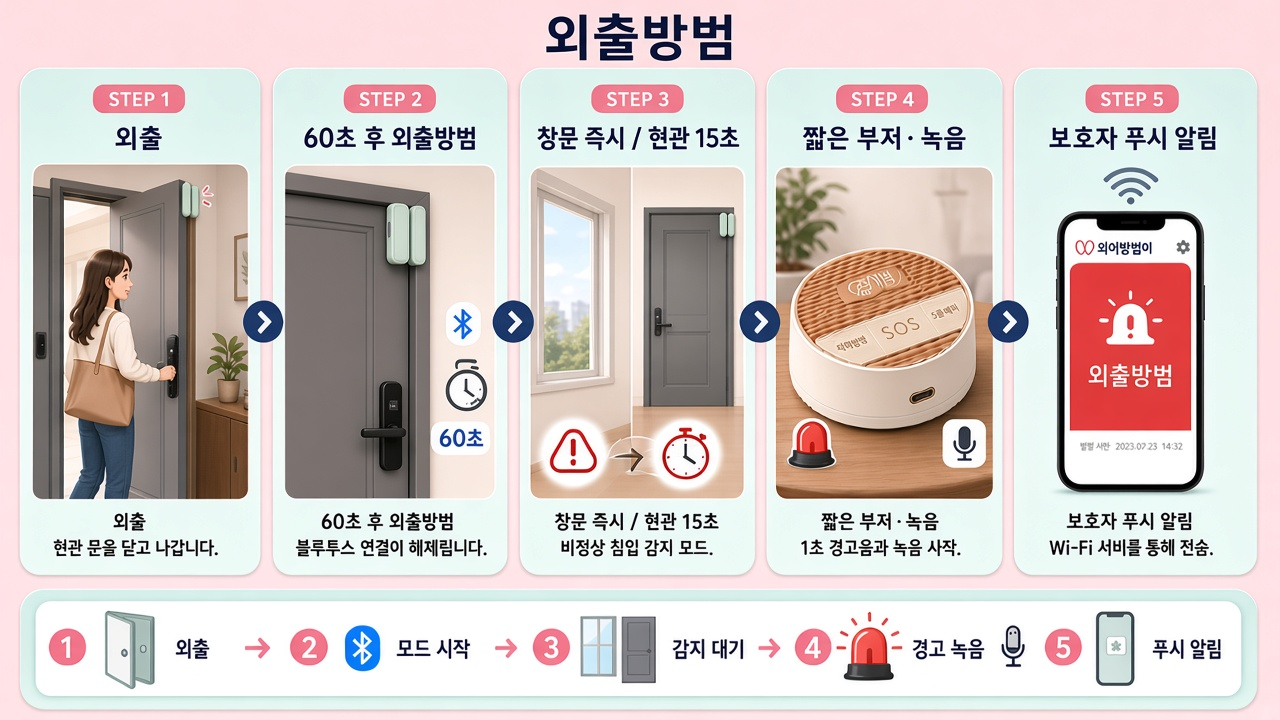
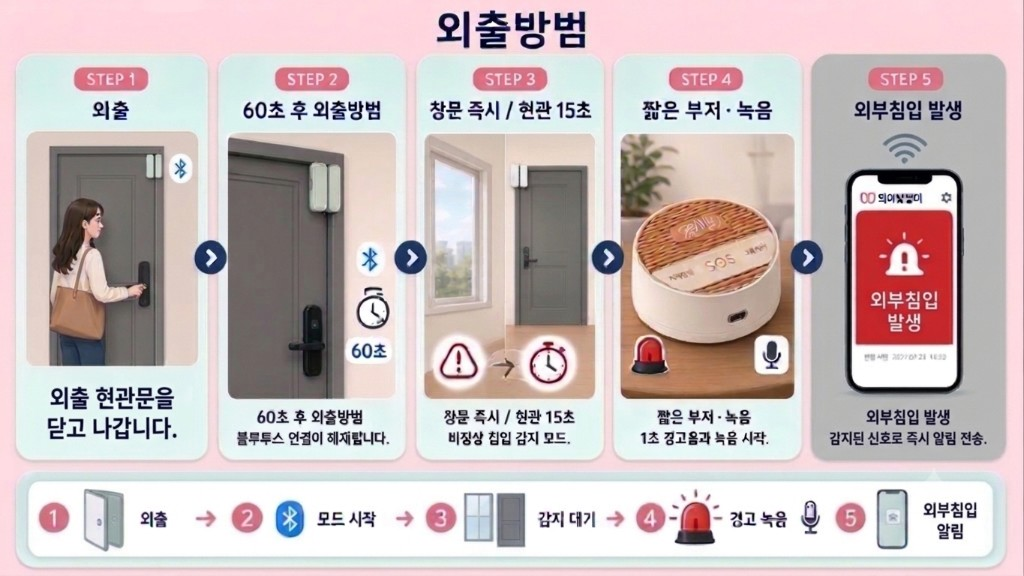
Update 외출방범 mode flow graphic on the product page.

diff --git a/products/my-ansimi-manual/index.html b/products/my-ansimi-manual/index.html
@@ -3,27 +3,27 @@
 <head>
   <meta charset="UTF-8" />
   <meta name="viewport" content="width=device-width, initial-scale=1" />
-  <meta name="description" content="마이안심이 사용 설명서 — 설치·앱 연결·방범 모드·비명인식 안내" />
+  <meta name="robots" content="noindex, nofollow, noarchive" />
   <title>마이안심이 — 그림으로 보는 사용 설명서</title>
   <link rel="stylesheet" href="https://cdn.jsdelivr.net/gh/orioncactus/pretendard@v1.3.9/dist/web/static/pretendard.min.css" />
   <style>
     :root {
-      /* 제품 톤: 크림 · 웜 그레이 · 골드 포인트 */
-      --bg: #f3eee6;
-      --paper: #fffcf7;
-      --ink: #2a2624;
-      --soft: #6a625c;
-      --line: #e5ddd2;
-      --rose: #8a6a4e;
-      --rose-soft: #f0e2d0;
-      --teal: #6b5a48;
-      --teal-soft: #ebe3d6;
-      --gold: #b8945a;
-      --warn: #6c5d32;
-      --warn-soft: #f0dba5;
+      /* Figma「마이안심이 리뉴얼」 */
+      --bg: #f6f3fa;
+      --paper: #ffffff;
+      --ink: #2c2440;
+      --soft: #8a8198;
+      --line: #ede7f3;
+      --rose: #7b61c6;
+      --rose-soft: #f1e8f8;
+      --teal: #684eae;
+      --teal-soft: #e8e4f8;
+      --gold: #7b61c6;
+      --warn: #c9841a;
+      --warn-soft: #f7ebd2;
       --danger: #ba1a1a;
       --font: "Pretendard", "Apple SD Gothic Neo", "Malgun Gothic", sans-serif;
-      --shadow: 0 18px 50px rgba(42,38,36,.08);
+      --shadow: 0 10px 28px rgba(56,36,97,.10);
     }
     * { box-sizing: border-box; }
     html { scroll-behavior: smooth; }
@@ -32,8 +32,8 @@
       font-family: var(--font);
       color: var(--ink);
       background:
-        radial-gradient(900px 420px at 0% 0%, #f0e2d088, transparent 60%),
-        radial-gradient(800px 400px at 100% 10%, #e8dfd255, transparent 55%),
+        radial-gradient(900px 420px at 0% 0%, #e4d8fa88, transparent 60%),
+        radial-gradient(800px 400px at 100% 10%, #d8c6f155, transparent 55%),
         var(--bg);
       line-height: 1.55;
     }
@@ -184,10 +184,10 @@
     .mode img { width: 48px; height: 48px; object-fit: contain; margin-bottom: .5rem; }
     .mode strong { display: block; font-size: 1.05rem; margin-bottom: .25rem; }
     .mode span { color: var(--soft); font-size: .9rem; }
-    .mode.m1 { background: linear-gradient(160deg, #fff, #ffeef2); }
-    .mode.m2 { background: linear-gradient(160deg, #fff, #eef6f5); }
-    .mode.m3 { background: linear-gradient(160deg, #fff, #f7f1e3); }
-    .mode.m4 { background: linear-gradient(160deg, #fff, #f2f0ee); }
+    .mode.m1 { background: linear-gradient(160deg, #fff, #f1e8f8); }
+    .mode.m2 { background: linear-gradient(160deg, #fff, #e8e4f8); }
+    .mode.m3 { background: linear-gradient(160deg, #fff, #f0e6fb); }
+    .mode.m4 { background: linear-gradient(160deg, #fff, #ede7f3); }
 
     .video-card {
       background: #1b1c1a; border-radius: 24px; overflow: hidden;
@@ -304,9 +304,8 @@
 <body>
   <nav class="topnav" id="topnav">
     <img src="images/logo.png" alt="마이안심이" />
-    <a href="../home-keeper.html">← 제품소개</a>
     <a href="#product">본체</a>
-    <a href="#video">영상</a>
+    <a href="#video">동작</a>
     <a href="#box">구성품</a>
     <a href="#setup">설치</a>
     <a href="#app">앱</a>
@@ -328,12 +327,12 @@
         <p>집에 있을 때나 외출할 때, 상황을 자동으로 인식해 24시간 지켜 줍니다. 기계가 익숙하지 않아도 쉽게 설치하고 쓸 수 있습니다.</p>
         <div class="cta-row">
           <a class="btn" href="#product">본체 알아보기</a>
-          <a class="btn sec" href="#video">▶ 설치 영상</a>
+          <a class="btn sec" href="#video">▶ 동작·설치 가이드</a>
           <a class="btn sec" href="간단매뉴얼.html">인쇄용 간단 매뉴얼</a>
         </div>
       </div>
       <div class="hero-visual">
-        <img src="images/device.png" alt="마이안심이 본체를 위에서 본 모습 · 경보 부저와 좌우 마이크, STANDBY·SOS·CLEAR 버튼" />
+        <img src="images/device.png" alt="마이안심이 본체를 위에서 본 모습 · 경보 부저와 좌우 마이크, 재택방범·SOS·5분해제 버튼" />
       </div>
     </header>
 
@@ -343,22 +342,32 @@
     <section class="section" id="product" data-k="본체 경보 부저 듀얼 마이크 전원 소리 USB-C 충전 포트 케이블">
       <h2>본체 알아보기</h2>
       <p class="lead">소리가 나오고 들어오는 곳, 버튼, 그리고 측면 충전 포트 위치를 확인하세요.</p>
-      <img class="pic-full" src="images/device-parts.png" alt="본체 부위 안내 · 위에서 본 경보 부저와 좌우 마이크, STANDBY·SOS·CLEAR 버튼, 측면 아래쪽 USB-C 충전 포트" />
+      <img class="pic-full" src="images/device-parts.png" alt="본체 부위 안내 · 위에서 본 경보 부저와 좌우 마이크, 재택방범·SOS·5분해제 버튼, 측면 아래쪽 USB-C 충전 포트" />
       <div class="parts-grid audio-parts">
-        <div class="part"><span class="tag">STANDBY</span><b>5분 일시정지</b></div>
+        <div class="part"><span class="tag">재택방범</span><b>재택 모드 · 해제</b></div>
         <div class="part sos"><span class="tag">SOS</span><b>비상 도움 요청</b><span>3초 이상 누르기</span></div>
-        <div class="part"><span class="tag">CLEAR</span><b>비상 해제</b></div>
+        <div class="part"><span class="tag">5분해제</span><b>5분 일시정지</b></div>
       </div>
     </section>
 
-    <!-- VIDEO -->
-    <section class="section" id="video" data-k="영상 비디오 가이드 자동재생">
-      <h2>설치 영상 가이드</h2>
-      <p class="lead">소리 없이 자동으로 넘어가는 짧은 가이드입니다. 재생·일시정지·다음을 눌러 보세요.</p>
+    <!-- SCENARIO + SETUP -->
+    <section class="section" id="video" data-k="영상 비디오 가이드 시나리오 동작">
+      <h2>상황별 동작 가이드</h2>
+      <p class="lead">현관문방범 · 재택방범 · 외출방범 · 본체 버튼을 골라 단계별로 확인하세요.</p>
+      <div class="video-card">
+        <iframe src="videos/scenario-guide.html" title="마이안심이 상황별 동작" loading="lazy"></iframe>
+        <div class="cap">
+          <span>상황 선택형 · 단계별 동작</span>
+          <a href="videos/scenario-guide.html?embed=0" target="_blank" rel="noopener" style="color:#f0e2d0">새 창에서 크게 보기</a>
+        </div>
+      </div>
+
+      <h3 class="sub" style="margin-top:1.6rem">설치 영상 가이드</h3>
+      <p class="lead">소리 없이 자동으로 넘어가는 짧은 설치 안내입니다.</p>
       <div class="video-card">
         <iframe src="videos/setup-guide.html" title="마이안심이 설치 영상 가이드" loading="lazy"></iframe>
         <div class="cap">
-          <span>실제 제품 사진 기반 · 로컬 제작 가이드</span>
+          <span>전원 · 앱 · 센서 · 방범 시작</span>
           <a href="videos/setup-guide.html" target="_blank" rel="noopener" style="color:#f0e2d0">새 창에서 크게 보기</a>
         </div>
       </div>
@@ -391,7 +400,7 @@
           <ul>
             <li>상단 중앙 <b>경보 부저 원형 그릴</b>을 가리지 않기</li>
             <li>좌·우 <b>마이크 구멍 2곳</b>을 가리지 않기</li>
-            <li>하단 <b>버튼부(STANDBY·SOS·CLEAR)</b>가 손에 닿는 방향으로 두기</li>
+            <li>하단 <b>버튼부(재택방범·SOS·5분해제)</b>가 손에 닿는 방향으로 두기</li>
             <li>마이크 구멍에 이물질을 넣지 않기</li>
             <li>TV·스피커 바로 옆은 피하기</li>
           </ul>
@@ -500,7 +509,10 @@
 
       <h3 class="sub">모드마다 이렇게 동작합니다</h3>
       <p class="sub-lead">무엇을 감시하고, 어떤 때 울리고, 어떻게 알려 주는지가 다릅니다.</p>
-      <img class="pic-full" src="images/mode-compare.png" alt="모드별 동작 비교 · 현관문방범은 현관문만·비명 시 사이렌과 구조 문자, 재택방범은 창문까지·푸시 알람, 외출방범은 열림 즉시 짧은 부저와 푸시" />
+      <img class="pic-full" src="images/mode-gate-flow.png?v=20261103redraw" alt="현관문방범 5단계" />
+      <img class="pic-full" src="images/mode-home-flow.png?v=20261103redraw" alt="재택방범 5단계" style="margin-top:1rem" />
+      <img class="pic-full" src="images/mode-out-flow.png?v=20261103out2" alt="외출방범 5단계" style="margin-top:1rem" />
+      <img class="pic-full" src="images/mode-compare.png" alt="모드별 동작 비교 · 현관문방범은 현관문만·비명 시 사이렌과 구조 문자, 재택방범은 창문까지·푸시 알람, 외출방범은 열림 즉시 짧은 부저와 푸시" style="margin-top:1rem" />
 
       <article class="step">
         <div class="step-body" style="grid-column:1/-1">
@@ -521,9 +533,9 @@
           <h3>재택방범 — 집에 혼자 있을 때</h3>
           <p>현관문방범에 더해 <b>창문 감지기</b> 보안이 함께 켜집니다. 외부 침입이 걱정될 때 쓰세요.</p>
           <ul>
-            <li>창문을 통해 누군가 들어오려 해 창문 감지기가 동작하면, <b>즉시 스마트폰으로 푸시 알람</b>을 보내 위험을 알려 줍니다.</li>
-            <li>사이렌은 울리지 않습니다. 집에 있는 사람에게 조용히 알려 주기 위함입니다.</li>
-            <li>알람이 오면 앱에서 어느 문·창문인지 확인하고, 위급하면 <b>112·119</b>에 신고하세요.</li>
+            <li>문·창문 감지기가 동작하면 <b>사이렌 없이 앱으로 알람</b>을 보냅니다.</li>
+            <li>알람을 보낸 뒤 모드는 <b>현관문방범</b>으로 바뀌고, 비명 인식 대기가 시작됩니다.</li>
+            <li>앱에서 어느 문·창문인지 확인하고, 위급하면 <b>112·119</b>에 신고하세요.</li>
           </ul>
         </div>
       </article>
@@ -534,19 +546,19 @@
           <h3>외출방범 — 집을 비웠을 때</h3>
           <p>빈집의 출입을 철저히 감시합니다. 침입이 감지되면 즉시 대응합니다.</p>
           <ul>
-            <li>문·창문이 열리면 <b>곧바로</b> 스마트폰으로 경고 푸시 알람이 갑니다.</li>
-            <li>집 안 본체에서는 <b>짧고 강렬한 부저</b>를 울려 침입자가 놀라 도망가도록 합니다.</li>
-            <li>알림은 Wi-Fi와 서버를 거쳐 밖에 있는 스마트폰으로 전달됩니다.</li>
-            <li>집에 돌아와 앱이 다시 연결되면 <b>현관문방범</b>으로 돌아오고, 외출 중 기록을 앱에서 확인할 수 있습니다.</li>
+            <li><b>창문</b>이 열리면 즉시 앱으로 경고 알람이 갑니다.</li>
+            <li><b>현관문</b>이 열리면 15초 안에 앱이 연결되면 알람을 내지 않고, 연결되지 않으면 알람이 갑니다.</li>
+            <li>본체는 약 <b>1초</b> 부저를 울리고 <b>10초</b> 녹음합니다. 앱이 다시 붙으면 녹음을 받을 수 있습니다.</li>
+            <li>집에 돌아와 앱이 다시 연결되면 <b>현관문방범</b>으로 돌아옵니다.</li>
           </ul>
         </div>
       </article>
 
       <div class="callout ok">
-        <strong>모드가 저절로 바뀔 때</strong> — 시스템이 재택·외출을 스스로 파악합니다. 스마트폰이 본체와 멀어져 블루투스가 끊기면 <b>외출방범</b>으로, 집에 돌아와 다시 연결되면 <b>현관문방범</b>으로 바뀝니다. 설정에서 <b>위치 기반 외출 방범</b>을 켤 수도 있습니다.
+        <strong>모드가 저절로 바뀔 때</strong> — 현관문이 열렸다 닫힌 뒤 앱(블루투스)이 끊기면 약 <b>60초</b> 후 <b>외출방범</b>으로 들어갑니다. 집에 돌아와 다시 연결되면 <b>현관문방범</b>으로 바뀝니다. 설정에서 <b>위치 기반 외출 방범</b>을 켤 수도 있습니다.
       </div>
       <div class="callout warn">
-        <strong>5분 일시정지</strong> — 택배·청소처럼 잠깐 끌 때만 쓰세요. 앱의 <b>방범 일시정지(5분)</b> 또는 본체 <b>STANDBY</b>를 누르면 5분 뒤 현관문방범으로 자동 복귀합니다. 외출방범에서는 동작하지 않습니다.
+        <strong>5분 일시정지</strong> — 택배·청소처럼 잠깐 끌 때만 쓰세요. 앱의 <b>방범 일시정지(5분)</b> 또는 본체 <b>5분해제</b>를 누르면 5분 뒤 현관문방범으로 자동 복귀합니다. 외출방범에서는 동작하지 않습니다.
       </div>
 
       <img class="pic-full" src="images/mode-icons.jpg" alt="모드 아이콘 참고" style="max-height:280px;object-fit:contain;background:#fff" />
@@ -568,7 +580,7 @@
         <div class="mini-card">
           <div class="txt">
             <h3>비명인식 대기시간</h3>
-            <p>문이 열린 뒤 <b>얼마 동안 들을지</b> 정합니다. 앱 설정에서 10 · 20 · 30 · 60초 중에 고르고, 기본은 60초입니다. 길게 두면 늦게 외쳐도 잡히고, 짧게 두면 오경보가 줄어듭니다.</p>
+            <p>문이 열린 뒤 <b>얼마 동안 들을지</b> 정합니다. <b>15 · 20 · 30초</b> 중에 고르고, 기본은 <b>30초</b>입니다. 길게 두면 늦게 외쳐도 잡히고, 짧게 두면 오경보가 줄어듭니다.</p>
           </div>
         </div>
         <div class="mini-card">
@@ -608,7 +620,7 @@
         </div>
       </article>
       <div class="callout danger">
-        <strong>사이렌은 앱으로만 끕니다</strong> — 침입자가 임의로 끌 수 없도록, 부저는 <b>마이안심이 앱의 「부저 정지」</b>로만 정지합니다. 오경보가 잦으면 본체 <b>STANDBY</b> 또는 앱의 방범 일시정지(5분)를 쓰세요.
+        <strong>사이렌은 앱으로만 끕니다</strong> — 침입자가 임의로 끌 수 없도록, 부저는 <b>마이안심이 앱의 「부저 정지」</b>로만 정지합니다. 오경보가 잦으면 본체 <b>5분해제</b> 또는 앱의 방범 일시정지(5분)를 쓰세요.
       </div>
     </section>
 

diff --git a/products/home-keeper.html b/products/home-keeper.html
@@ -96,7 +96,7 @@
 </div>
 <div class="mode-panel" id="mode-out" role="tabpanel">
 <figure class="use-demo" style="margin:0">
-<img class="use-demo__img" src="my-ansimi-manual/images/mode-out-flow.png?v=20261103style" alt="외출방범 5단계 — 외출, 60초 전환, 창문·현관 감지, 짧은 부저, 푸시 알림">
+<img class="use-demo__img" src="my-ansimi-manual/images/mode-out-flow.png?v=20261103out2" alt="외출방범 5단계 — 외출, 60초 전환, 창문·현관 감지, 짧은 부저, 푸시 알림">
 <div class="use-demo__cap"><span>외출 전환 → 창문 즉시/현관 15초 → 짧은 부저 → 푸시</span><a href="my-ansimi-manual/images/mode-out-flow.png" target="_blank" rel="noopener">크게 보기</a></div>
 </figure>
 </div>
